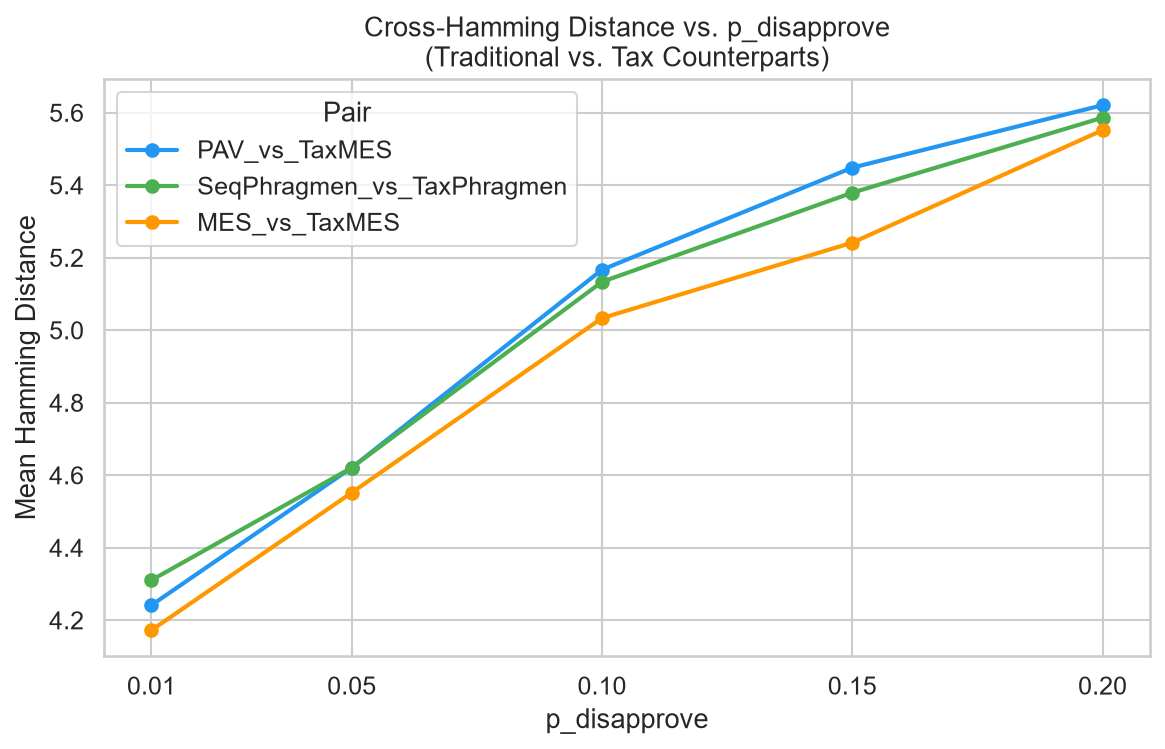
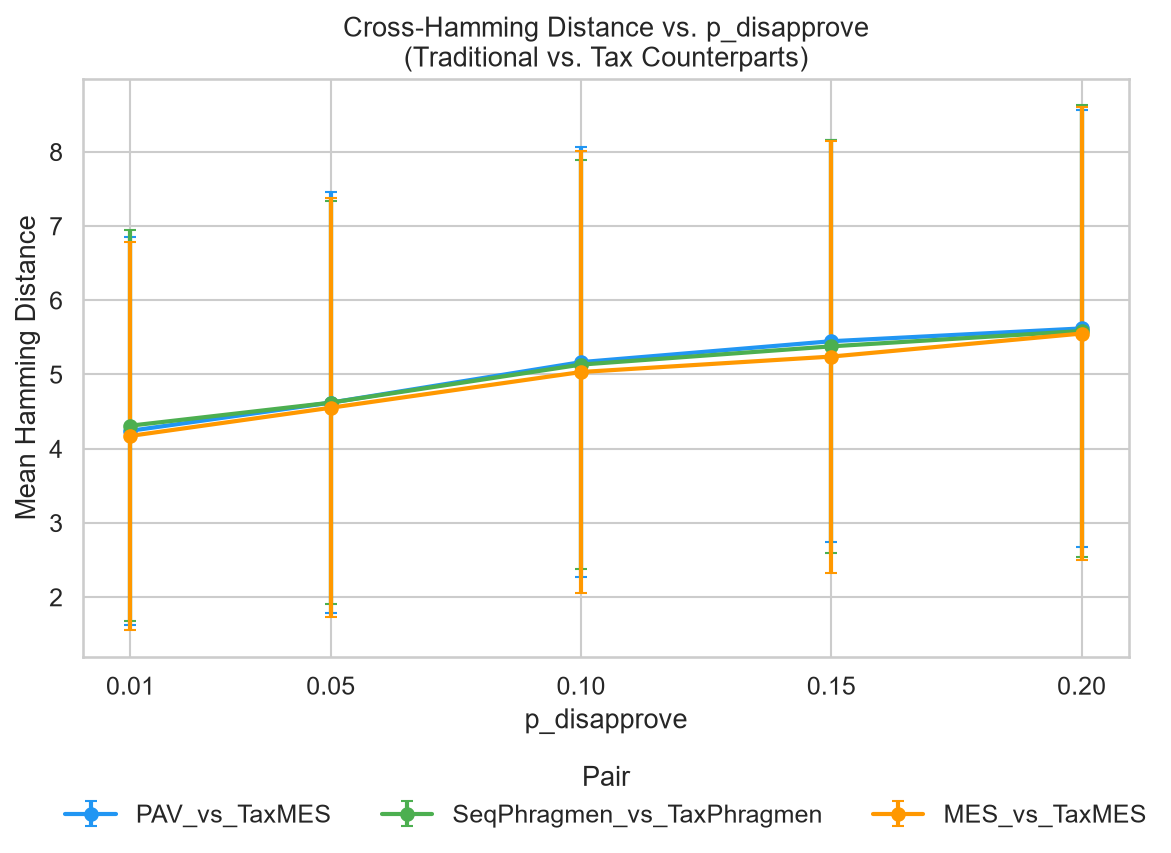
Statistical Tests added

Changed region(s): [[0.0, 0.0, 0.9888, 0.9826]]

diff --git a/experiments/Stage 3/Statistical Tests/statistical_tests_methods.py b/experiments/Stage 3/Statistical Tests/statistical_tests_methods.py
@@ -1,0 +1,70 @@
+import numpy as np
+import pandas as pd
+from scipy import stats
+import pingouin as pg
+import matplotlib.pyplot as plt
+
+#Statistical tests for Hamming distance group comparisons
+
+def get_group_values(df, rule_label, value_col="hamming_distance", dataset_col="dataset", rule_col="rule"):
+    #Extracts one Hamming distance value per dataset for a given rule pair label
+    sub = df[df[rule_col] == rule_label].drop_duplicates(subset=[dataset_col])
+    return sub[value_col].dropna().to_numpy()
+
+def create_qq_plots(groups, out_path):
+    # Saves a row of QQ plots, one per group, for a lenient visual normality check
+    fig, axes = plt.subplots(1, len(groups), figsize = (4* len(groups), 4))
+    if len(groups) == 1:
+        axes = [axes]
+    for ax, (label, values) in zip(axes, groups.items()):
+        stats.probplot(values, dist="norm", plot=ax)
+        ax.set_title(label, fontsize = 9)
+    fig.tight_layout()
+    fig.savefig(out_path, dpi=150)
+    plt.close(fig)
+
+def run_group_comparison(groups, alpha=0.05):
+    # Runs Levene's test, then either ANOVA + Tukey HSD or Welch ANOVA + Games-Howell
+    long_df = pd.concat(
+        [pd.DataFrame({"group": label, "value": value}) for label, value in groups.items()],
+        ignore_index=True,
+    )
+
+    levene_stat, levene_p = stats.levene(*groups.values())
+    equal_variance = levene_p >alpha
+
+    result = {
+        "alpha": alpha,
+        "levene_stat": levene_stat,
+        "levene_p": levene_p,
+        "equal_variance": equal_variance,
+    }
+
+    if equal_variance:
+       anova = pg.anova(dv="value", between="group", data=long_df, detailed=True)
+       p_value = anova["p-unc"].iloc[0] if "p-unc" in anova.columns else anova["p_unc"].iloc[0]
+       result["test"] = "ANOVA"
+       result["anova_table"] = anova
+       result["p_value"] = p_value
+       result["posthoc"] = pg.pairwise_tukey(dv="value", between="group", data=long_df) if p_value < alpha else None
+    else:
+        welch = pg.welch_anova(dv="value", between="group", data=long_df)
+        p_value = welch["p-unc"].iloc[0] if "p-unc" in welch.columns else welch["p_unc"].iloc[0]
+        result["test"] = "Welch ANOVA"
+        result["anova_table"] = welch
+        result["p_value"] = p_value
+        result["posthoc"] = pg.pairwise_gameshowell(dv="value", between="group", data=long_df) if p_value < alpha else None
+
+    return result
+
+def print_result(test_name, result):
+    print(f"\n{test_name}")
+    print(f"  Levene's test: stat={result['levene_stat']:.3f}, p={result['levene_p']:.4f} -> "
+          f"{'equal' if result['equal_variance'] else 'unequal'} variances")
+    print(f"  {result['test']}: p={result['p_value']:.4g}")
+    if result["posthoc"] is not None:
+        label = "Tukey HSD" if result["test"] == "ANOVA" else "Games-Howell"
+        print(f"  Post-hoc ({label}):")
+        print(result["posthoc"].to_string(index=False))
+    elif result["p_value"] >= result["alpha"]:
+        print("  Not significant, no post-hoc performed.")

diff --git a/experiments/Stage 3/Statistical Tests/run_statistical_tests.py b/experiments/Stage 3/Statistical Tests/run_statistical_tests.py
@@ -1,0 +1,53 @@
+import os
+import pandas as pd
+from statistical_tests_methods import *
+
+#Paths
+root_dir = r"C:\Users\paulc\Documents\bachelor-thesis"
+metrics_dir = os.path.join(root_dir, "experiments", "Stage 3", "Metrics")
+stats_dir = os.path.join(root_dir, "experiments", "Stage 3", "Statistical Tests")
+real_world_csv = os.path.join(metrics_dir, "metrics_real_world.csv")
+synthetic_csv = os.path.join(metrics_dir, "metrics_synthetic.csv")
+
+qq_output_dir = os.path.join(stats_dir, "QQ_Plots")
+os.makedirs(qq_output_dir, exist_ok=True)
+
+alpha = 0.05
+p_disapprove_values = [0.01, 0.05, 0.1, 0.15, 0.2]
+
+#Test A SeqPhragmen-anchored cross distance to TaxPhragmen vs within-traditional distances
+test_a_rules = ["SeqPhragmen_vs_TaxPhragmen", "PAV_vs_SeqPhragmen", "SeqPhragmen_vs_MES"]
+
+# Test B: MES-anchored -- cross distance to TaxMES vs within-traditional distances
+test_b_rules = ["MES_vs_TaxMES", "PAV_vs_MES", "SeqPhragmen_vs_MES"]
+
+tests = {"Test_A_SeqPhragmen": test_a_rules, "Test_B_MES": test_b_rules}
+
+def run_tests_on_df(df, label, tests):
+    for test_name, rule_labels in tests.items():
+        groups = {rule: get_group_values(df, rule) for rule in rule_labels}
+        empty = [rule for rule, values in groups.items() if len(values) == 0]
+        if empty:
+            print(f"Skipping {label} - {test_name}: no data for {empty}")
+            continue
+
+        qq_path = os.path.join(qq_output_dir, f"{label}_{test_name}_qq.png")
+        create_qq_plots(groups, qq_path)
+
+        result = run_group_comparison(groups, alpha=alpha)
+        print_result(f"{label} - {test_name}", result)
+
+if __name__ == "__main__":
+    print("=" * 50)
+    print("Real-world data")
+    print("=" * 50)
+    df_rw = pd.read_csv(real_world_csv, encoding="utf-8")
+    run_tests_on_df(df_rw, "realworld", tests)
+
+    print("\n" + "=" * 50)
+    print("Synthetic data")
+    print("=" * 50)
+    df_syn = pd.read_csv(synthetic_csv, encoding="utf-8")
+    for p_val in p_disapprove_values:
+        df_pd = df_syn[df_syn["p_disapprove"] == p_val]
+        run_tests_on_df(df_pd, f"synthetic_pd_{p_val}", tests)

diff --git a/experiments/Stage 3/Metrics/correlation_test.py b/experiments/Stage 3/Metrics/correlation_test.py
@@ -1,0 +1,23 @@
+import pandas as pd
+from scipy import stats
+
+metrics_dir = r"C:\Users\paulc\Documents\bachelor-thesis\experiments\Stage 3\Metrics"
+df = pd.read_csv(f"{metrics_dir}\\metrics_synthetic.csv")
+
+syn = df[df["method"].isin(["Traditional", "AV", "Tax"])].copy()
+rule_order = ["AV", "PAV", "SeqPhragmen", "MES", "TaxPhragmen", "TaxMES"]
+
+print(f'{"rule":<14}{"n":>5}{"pearson_r":>12}{"p_value":>12}{"spearman_rho":>14}{"p_value":>12}')
+for rule in rule_order:
+    sub = syn[syn["rule"] == rule].dropna(subset=["avg_elected_disapprovals_per_voter", "p_disapprove"])
+    r, p = stats.pearsonr(sub["p_disapprove"], sub["avg_elected_disapprovals_per_voter"])
+    rho, ps = stats.spearmanr(sub["p_disapprove"], sub["avg_elected_disapprovals_per_voter"])
+    print(f'{rule:<14}{len(sub):>5}{r:>12.4f}{p:>12.2e}{rho:>14.4f}{ps:>12.2e}')
+
+
+print("\ncheck — avg_disapprovals_per_voter (all disapprovals, rule-independent):")
+for rule in rule_order:
+    sub = syn[syn["rule"] == rule].dropna(subset=["avg_disapprovals_per_voter", "p_disapprove"])
+    r, p = stats.pearsonr(sub["p_disapprove"], sub["avg_disapprovals_per_voter"])
+    rho, ps = stats.spearmanr(sub["p_disapprove"], sub["avg_disapprovals_per_voter"])
+    print(f'{rule:<14}{len(sub):>5}{r:>12.4f}{p:>12.2e}{rho:>14.4f}{ps:>12.2e}')
